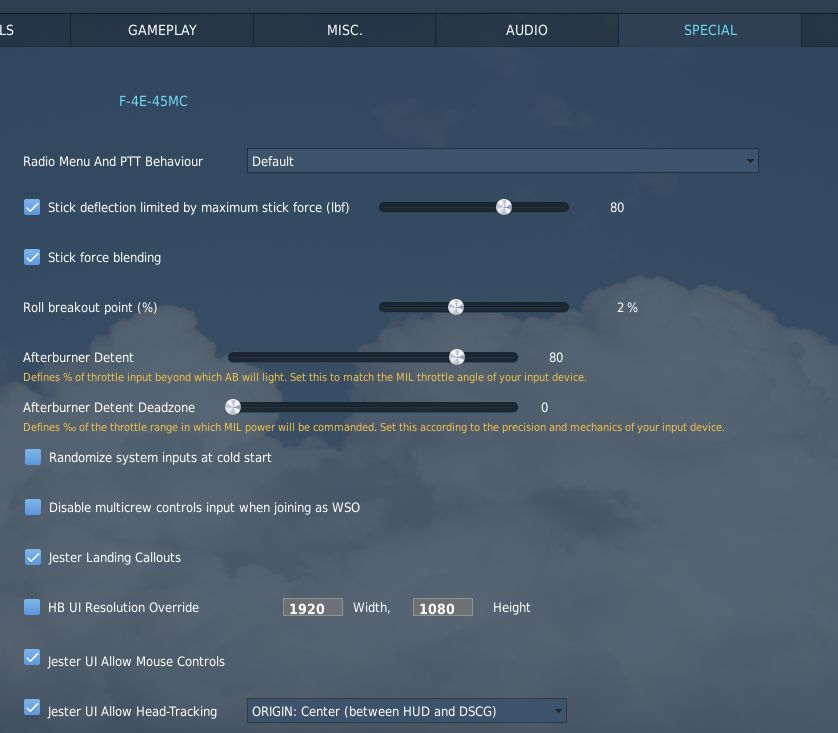
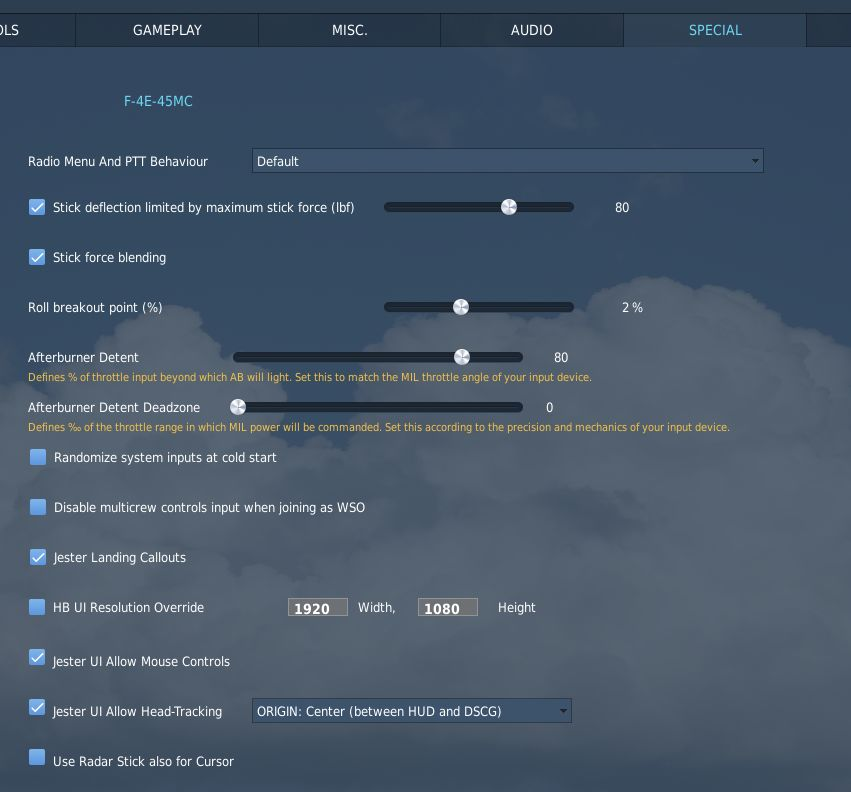
added special option to use radar stick for cursor

diff --git a/src/dcs/special_options.md b/src/dcs/special_options.md
@@ -133,5 +133,13 @@ can lead to having to chase the cursor when closing and re-opening the UI
 frequently. Also, the _Dynamic_ option is less meaningful in VR, as the UI
 elements are then all rendered on the front always.
 
-> 💡 Jester Dialogs always use the _Center_ type, requiring to look
-> forward.
+> 💡 Jester Dialogs always use the _Center_ type, requiring to look forward.
+
+## Radar Stick for Cursor
+
+When checked, the binds mapped to control the
+[Antenna Hand Control](../cockpit/wso/right_console/front_section.md#antenna-hand-control)
+can also be used to move the cursor used for Offset Bombing and similar, making
+binding the two
+[Track Wheels](../cockpit/wso/right_console/center_section.md#along-track-wheel)
+obsolete.
